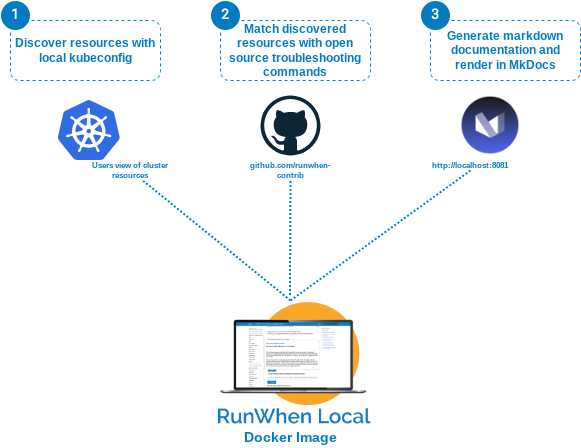
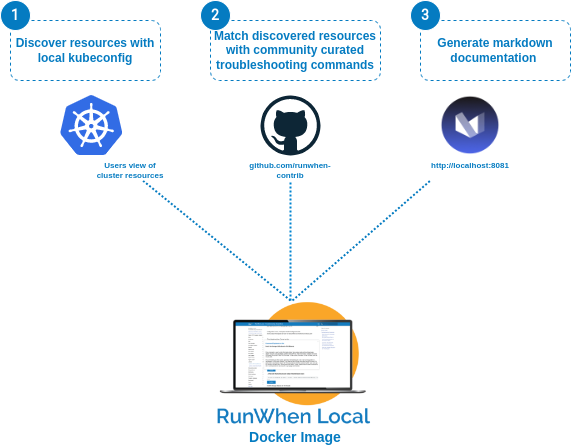
doc updates

diff --git a/README.md b/README.md
@@ -4,8 +4,8 @@
 This tool runs on your local machine, and:
 
 - **Scans** your Kubernetes-based cluster
-- Combines **your environment** with **open source troubleshooting commands**
-- 🎉 Generates a searchable / copy pasteable cheat sheet for your environment
+- Combines **your environment** with **community curated troubleshooting commands**
+- 🎉 Generates a searchable / copy pasteable cheat sheet *tailored for the workloads you are running*
 
 ![RunWhen Local Overview](assets/flow.png)
 
